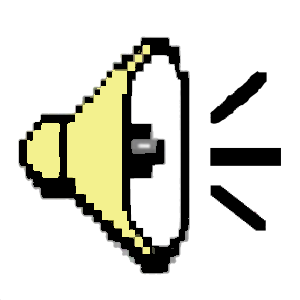
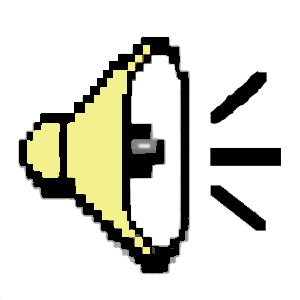
Added smart tracker scaffold

Changed region(s): [[0.12, 0.12, 0.54, 0.39]]

diff --git a/src/GaiaiLogic/GaiaiLogic/HTMLGameData/mainMenu.js b/src/GaiaiLogic/GaiaiLogic/HTMLGameData/mainMenu.js
@@ -59,7 +59,35 @@ const mainMenu = {
 
     },
     showSmartTrackerWindow: function () {
+        const modalWidth = 480;
+        const modalHeight = 350;
+        const centerWidth = (windowsContainer.clientWidth / 2) - (modalWidth / 2);
+        const centerHeight = (windowsContainer.clientHeight / 2) - (modalHeight / 2);
+        const modalOptions = {
+            movable: true
+        };
+        const contentModal = templateLoader.getTemplate("SmartTrackerModal");
+        mainMenu.welcomePage = 1;
+        taskBar.createWindow(
+            'SmartTracker',
+            centerWidth,
+            centerHeight,
+            modalWidth,
+            modalHeight,
+            modalOptions,
+            () => translator.fillTranslations(contentModal),
+            (element, windowIndex) => {
+                const model = {
+                    root: element,
+                    selectedItems: [],
+                    nextPage: function () {
+                    }
+                }
 
+                return model;
+            }
+        );
+        taskBar.clickOnSmartButton();
     },
     showWelcomeWindow: function () {
         const modalWidth = 480;

diff --git a/src/GaiaiLogic/GaiaiLogic/HTMLGameData/game.html b/src/GaiaiLogic/GaiaiLogic/HTMLGameData/game.html
@@ -1,14 +1,14 @@
 <html class="task-bar-background-area">
 	<head>
-	  <link rel="stylesheet" href="w95style.css">
-	  <link rel="stylesheet" href="game.css">
-	  <style>
-		body {
-			margin:0;
-			padding:0;
-			border-spacing: 0;
-		}
-	  </style>
+		<link rel="stylesheet" href="w95style.css">
+		<link rel="stylesheet" href="game.css">
+		<style>
+			body {
+				margin:0;
+				padding:0;
+				border-spacing: 0;
+			}
+		</style>
 	</head>
 	<body class="task-bar-background-area">
 		<div id="triggershub" style="behavior: triggershub; width: 0px; height: 0px;"></div>
@@ -22,7 +22,7 @@
 		<div id="popup-menus-container" class="popup-menus-container" style="display: block;"></div>
 
 		<!-- task bar -->
-		<div class="game-task-bar task-bar width-full flex-row">
+		<div class="game-task-bar task-bar width-full flex-row"> 
 			<!-- smart button -->
 			<div style="width: 80px;">
 				<div id="smart-button-root" class="button-idle-panel margin-top-2 margin-left-2">

diff --git a/src/GaiaiLogic/GaiaiLogic/TemplateFiles/SmartTrackerModal.html b/src/GaiaiLogic/GaiaiLogic/TemplateFiles/SmartTrackerModal.html
@@ -1,0 +1,18 @@
+<div class="smarttracker-modal-container flex-col">
+    <div class="flex-col width-full">
+        <div class="flex-row margin-left-4 margin-top-4 margin-right-2">
+            <div class="panel padding-full-2 item-center" style="width: 200px;">
+                <div class="text-middle-plus-size margin-left-2 margin-top-2">{{trans_STModalAllTasks}}</div>
+            </div>
+            <div class="panel padding-full-2 flex-1 margin-left-3 item-center">
+                <div class="text-middle-plus-size margin-left-2 margin-top-2">{{trans_STModalContentsOf}}</div>
+            </div>
+        </div>
+        <div>
+
+        </div>
+    </div>
+    <div class="flex-row margin-left-4 margin-right-4 margin-top-4 margin-bottom-4 panel">
+        <div style="margin: 10px;">Panel content</div>
+    </div>
+</div>

diff --git a/src/GaiaiLogic/GaiaiLogic/HTMLGameData/stylew95.html b/src/GaiaiLogic/GaiaiLogic/HTMLGameData/stylew95.html
@@ -20,7 +20,7 @@
 			<div style="display: flex; flex-direction: row;">
 				<div style="width: 1px; height: 25px;" class="reverted-panel"></div>
 				<div style="margin-left: 1px; width: 1px; height: 25px;" class="reverted-panel"></div>
-			</div>		
+			</div>
 		</div>
 
 		<!-- menu panel -->

diff --git a/src/GaiaiLogic/GaiaiLogic/HTMLGameData/game.css b/src/GaiaiLogic/GaiaiLogic/HTMLGameData/game.css
@@ -425,6 +425,26 @@
 	margin-right: 7px;
 }
 
+.padding-full-1 {
+	padding: 1px;
+}
+
+.padding-full-2 {
+	padding: 2px;
+}
+
+.padding-full-3 {
+	padding: 3px;
+}
+
+.padding-full-4 {
+	padding: 4px;
+}
+
+.padding-full-5 {
+	padding: 5px;
+}
+
 .width-full {
 	width: 100%;
 }
